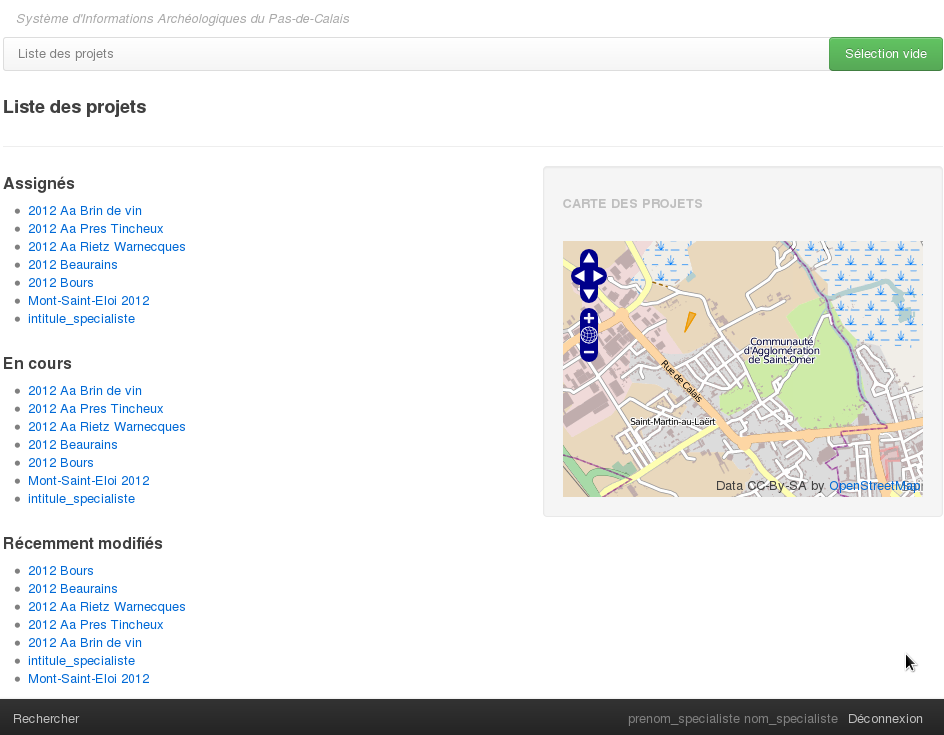
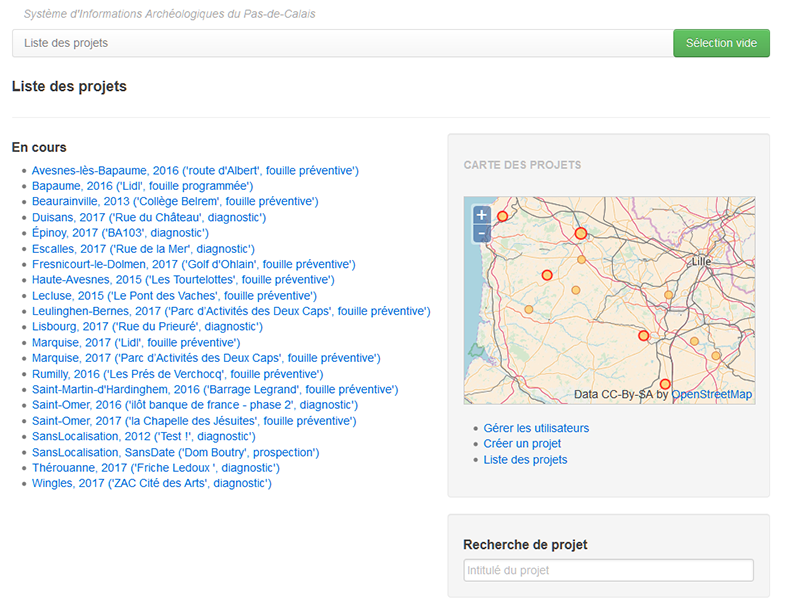
ajout nouvelle page d'acceuil

diff --git a/manuel/connexion.rst b/manuel/connexion.rst
@@ -61,20 +61,24 @@ Accéder au SIA
 L'entrée dans l'application se fait via le site internet `sia.archeologie.pasdecalais.fr <http://sia.archeologie.pasdecalais.fr/>`_ dans votre navigateur.
 
 ..	image:: ./fig/accueil_sia_liste_projets.png
-	:scale: 40%
+	:scale: 70%
 	:alt: Page d'accueil du SIA
 	:align: center
 
 Veuillez saisir vos identifiants dans les 2 boîtes situées en bas à droite de la page puis cliquez sur le bouton *Go*.
 
-Cette page se divise en 2 principaux blocs, le premier se compose de 3 colonnes :
+Cette page affiche plusieurs blocs :
 
-- **Assignés** : cette colonne indique les projets sur lesquels l'utilisateur a des droits en écriture
+- à gauche, il s'agit d'une liste de liens vers les projets considérés comme **En cours**
 
-- **En cours** : cette colonne indique les principaux projets ouverts, cette sélection est faite par l'administrateur
+- à droite se trouve la *Carte des projets*, elle affiche la position de tous les projets en cours
 
-- **Récemment modifiés** : cette colonne indique les 10 derniers projets ayant connus une modification, son affichage est automatisé
+- en-dessous de cette carte figurent trois liens
+  
+  - **Gérer les utilisateurs**
+  - **Créer un projet**
+  - **Liste des projets**, elle permet d'obtenir l'intégralité des projets existants
 
-Le second bloc se situe à droite et s'intitule *Carte des projets*, il affiche la position de tous les projets assignés à l'utilisateur.
+- en bas à droite, la barre **Recherche du projet** permet d'obtenir tous les projets contenant le terme voulu.
 
 

diff --git a/manuel/interface.rst b/manuel/interface.rst
@@ -232,7 +232,7 @@ L'identifiant SRA
 
 ..	figure:: ./fig/sra_identifiant.png
 	:align: center
-	:scale: 80%
+	:scale: 60%
 
 Afin de se conformer au complément au cahier des charges scientifiques établit par le Service Régional d'Archéologie du Nord-Pas de Calais [#f3]_, le SIA génère automatiquement l'identifiant normalisé pour les mobiliers et les documents en utilisant le contenu des champs et des listes des formulaires.
 
